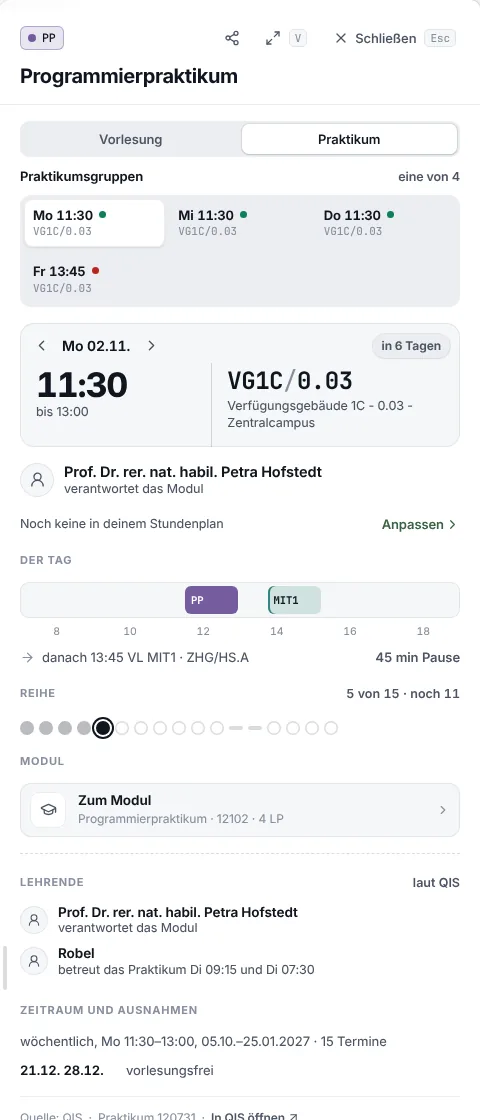
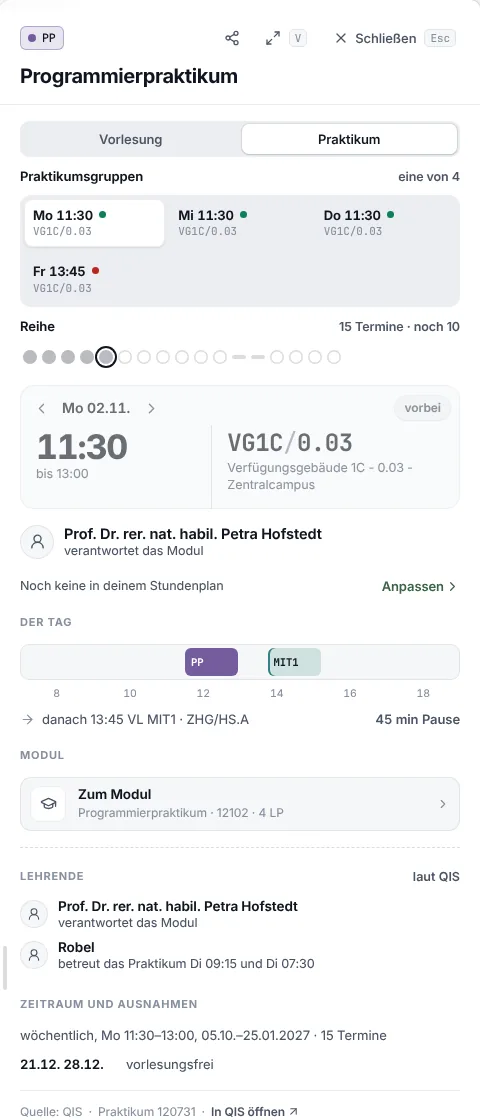
A Termin's series picks its date, above the ticket
The owner, 2026-11-03: „Passt, bau als Nächstes die Reihe als Auswahl über dem Ticket".

- widgets::termin: „Reihe" is the last of what picks, right above the ticket: a dot per date, each
  leading to it again (past, cancelled, noted, hidden; the break a dash that leads nowhere), the
  one shown ringed, its place in the series in its label („Di 10.11. · 6 von 14"). Its head says
  how many dates it has and how many are to come („14 Termine · noch 9"), which no pick changes;
  the place of the date shown („6 von 14") left it for that. The row is drawn once per series: a
  date picked moves the ring alone, and the keyboard stays where it was. Below the ticket the day
  alone, a picture.
- app.css: each dot a link a little larger than the dot (`.sdl`).
- e2e/termin.mjs: „Reihe" above the ticket; a date picked by its dot changes the ticket under it,
  nothing above it moves.
- docs/folia/frontend.md and folia/design/termin: the series above the ticket.

Claude-Session: https://claude.ai/code/session_01R2JvTv9zadiZjSdreJMpf1

diff --git a/folia/design/termin/konzepte.html b/folia/design/termin/konzepte.html
@@ -890,16 +890,17 @@ details.r1 .in { padding: 0 24px 24px; }
 
   <section class="sec" id="runde5" aria-labelledby="r5-title">
     <h2 id="r5-title">Was die fünfte Runde ändert</h2>
-    <p class="sub">Was wählt, steht oben. Diesmal gebaut, nicht gezeichnet: derselbe Termin neben seiner Modulseite, links Folia 1.54.0, rechts 1.56.0.</p>
+    <p class="sub">Was wählt, steht oben. Diesmal gebaut, nicht gezeichnet: derselbe Termin neben seiner Modulseite, links Folia 1.54.0, rechts 1.59.3 mit der Reihe über dem Ticket.</p>
     <div class="dec">
       <div class="ba">
         <figure><figcaption>Vierte Runde</figcaption><img src="bilder/runde4.webp" width="480" height="1120" alt="Die vierte Runde neben der Modulseite: oben das Ticket, darunter die Praktikumsgruppen, der Tag, die Reihe, das Modul, ganz unten „Alle Veranstaltungen“, aus denen man den Termin wählt." loading="lazy"></figure>
-        <figure><figcaption>Fünfte Runde</figcaption><img src="bilder/runde5.webp" width="480" height="1120" alt="Die fünfte Runde: unter dem Kopf mit dem Modul die Veranstaltungen als Segmente, Vorlesung und Praktikum, darunter die Praktikumsgruppen, dann das Ticket, die Person, „Anpassen“, der Tag und die Reihe." loading="lazy"></figure>
+        <figure><figcaption>Fünfte Runde</figcaption><img src="bilder/runde5.webp" width="480" height="1120" alt="Die fünfte Runde: unter dem Kopf mit dem Modul die Veranstaltungen als Segmente, Vorlesung und Praktikum, darunter die Praktikumsgruppen und die Reihe, dann das Ticket, die Person, „Anpassen“ und der Tag." loading="lazy"></figure>
       </div>
       <ul class="fb">
         <li><q>dass man unten auswählt, welchen Termin man sich genau angucken möchte und sich dann die Seite nur marginal ändert</q><span>Die Veranstaltungen des Moduls stehen jetzt oben als Segmente, darunter die Gruppen. Ein Tipp ändert das Ticket darunter, nichts darüber. „Alle Veranstaltungen“ am Ende gibt es nicht mehr: es sind die Segmente und die Gruppen, oben.</span></li>
         <li><q>Wenn man solche Buttons hat, dann ändern die nur den Inhalt unter ihnen</q><span>Der Kopf nennt das Modul und ändert sich mit keiner Wahl. Das Datum wählen die Pfeile am Ticket, über Zeit und Raum, die sie ändern.</span></li>
-        <li><q>Ansonsten muss man nochmal über das Konzept nachdenken</q><span>Unter dem Ticket wählt nichts mehr: der Tag und die Reihe sind Bilder. Im Stundenplan bleiben die Haken unter den Infos; sie stellen den Plan ein, nicht die Ansicht.</span></li>
+        <li><q>Ansonsten muss man nochmal über das Konzept nachdenken</q><span>Unter dem Ticket wählt nichts mehr: der Tag ist ein Bild. Im Stundenplan bleiben die Haken unter den Infos; sie stellen den Plan ein, nicht die Ansicht.</span></li>
+        <li><q>bau als Nächstes die Reihe als Auswahl über dem Ticket</q><span>Die Reihe steht jetzt als Letztes über dem Ticket: ein Tipp auf einen Punkt zeigt sein Datum. Ihr Kopf sagt nur, wie viele Termine es gibt und wie viele noch kommen; der wievielte steht am Punkt.</span></li>
         <li><q>Einfaches Prinzip</q><span>Steht jetzt in Betulas Regeln (CLAUDE.md, „Design“), für jede Ansicht.</span></li>
       </ul>
     </div>

diff --git a/folia/assets/app.css b/folia/assets/app.css
@@ -4250,8 +4250,12 @@ a.agenda-item:hover > span:not(.t) { text-decoration: underline; text-underline-
 .is-termin .nx { display: flex; align-items: center; gap: 7px; flex-wrap: wrap; margin: 0; color: var(--text-2); font-size: 13px; }
 .is-termin .nx > .icon { width: 15px; height: 15px; color: var(--text-3); }
 .is-termin .nx .w { margin-left: auto; color: var(--text-2); font-weight: 600; font-variant-numeric: tabular-nums; }
-/* „Reihe": a dot per date, a picture as the day is (the arrows beside the date step). */
-.is-termin .sdots { display: flex; flex-wrap: wrap; gap: 8px 5px; align-items: center; padding-top: 6px; }
+/* „Reihe", the last of what picks, right above the ticket (owner, 2026-11-03: „bau als Nächstes die
+   Reihe als Auswahl über dem Ticket"): a dot per date, each a link a little larger than its dot to
+   hit (span.sdl for the break, which one does not step to), the one shown ringed. */
+.is-termin .sdots { display: flex; flex-wrap: wrap; align-items: center; padding-top: 3px; }
+.is-termin .sdl { flex: none; display: grid; place-items: center; padding: 5px 2.5px; border-radius: 6px; }
+.is-termin a.sdl:hover > .sd:not(.sel):not(.cancel) { box-shadow: inset 0 0 0 1.5px var(--text-2); }
 .is-termin .sd { position: relative; flex: none; width: 14px; height: 14px; border-radius: 50%; box-shadow: inset 0 0 0 1.5px var(--line-strong); }
 .is-termin .sd.past { background: color-mix(in oklch, var(--text) 26%, var(--panel)); box-shadow: none; }
 .is-termin .sd.note { background: var(--warn); box-shadow: none; }

diff --git a/folia/crates/widgets/src/termin.rs b/folia/crates/widgets/src/termin.rs
@@ -6,9 +6,11 @@
 //! The head names the module, its chip and its title, which no pick changes. Under it what picks
 //! the Termin (`Pick`): the module's events as a row of segments where it has more than one (the
 //! one shown marked; another leads to its Termin the plan holds, else to its first), the event's
-//! own title where it is not the module's, and to look up (`TerminMode::LookUp`) the event's groups
-//! as tiles measured against the plan, or its Termine where it is held at several times without
-//! groups. Then what one wants to know of the date (the owner, of the third round: „punkt 1 sind ein
+//! own title where it is not the module's, to look up (`TerminMode::LookUp`) the event's groups as
+//! tiles measured against the plan, or its Termine where it is held at several times without
+//! groups, and last, right above the ticket, „Reihe": a dot per date, each leading to it (owner,
+//! 2026-11-03: „bau als Nächstes die Reihe als Auswahl über dem Ticket"). Then what one wants to
+//! know of the date (the owner, of the third round: „punkt 1 sind ein
 //! paar mehr infos. Punkt 2 ist dann die Termine zu customizen"): the day with arrows to the dates
 //! before and after it, where it stands („in 40 min", „läuft · noch 20 min", „Fällt aus"), the time
 //! and the room; who leads it and what else is said of it (a clash in red, why QIS cancels it, a
@@ -17,9 +19,9 @@
 //! the choice stays open), the event shown or not, this one date hidden — switches that change the
 //! plan at once, and the Kalender-Abo too, not what the view shows. To look up, of a module in the
 //! plan, how many of the groups the plan holds and „Anpassen ›"; of one outside it „In den
-//! Kalender". Then what one looks up, the day of the plan around the date and the series of its
-//! dates as pictures that pick nothing, the module with its exam, who teaches, the period and every
-//! date that differs, and the source.
+//! Kalender". Then what one looks up, the day of the plan around the date as a picture that picks
+//! nothing, the module with its exam, who teaches, the period and every date that differs, and the
+//! source.
 //!
 //! Every pick leads to its Termin by an address of the page (`TerminLinks`), so Back steps back
 //! through them, `nofollow` (a Termin's own page is no page search engines list); the switches
@@ -30,7 +32,7 @@
 //! phone a sheet over it, with „Teilen", „Ganze Seite" (V) and „Schließen" (Esc) at its head (the
 //! owner, 2026-10-26: „bau als Nächstes Teilen und Ganze Seite"); after „Ganze Seite" filling the
 //! page it stood beside, the same view in two columns — on the left the Termin (what picks it, the
-//! ticket, who, „Im Stundenplan" or the plan's line, the day, the series, the period), on the right
+//! ticket, who, „Im Stundenplan" or the plan's line, the day, the period), on the right
 //! the module and who teaches, which no pick changes, and the source at the end — with „Zurück"
 //! (Esc) to the view beside the page; and as a page of its own (`/event/<key>/<day>`) in the same
 //! two columns. „Teilen" hands on that page's address.
@@ -409,16 +411,23 @@ struct RibbonItem {
     out: bool,
 }
 
+/// „Reihe" over the ticket: how many dates it has and how many are still to come, which no pick
+/// changes, and a dot per date.
 #[derive(Clone, Debug, PartialEq)]
 struct SeriesPart {
     right: String,
     dots: Vec<Dot>,
 }
 
+/// A date of the series as its dot: its state's class (the one shown is marked where it is drawn,
+/// so a date picked redraws no dot), what it says with its place in the series („Mo 09.11. · 6 von
+/// 15"), and whether it leads to its date (the break and the holidays do not).
 #[derive(Clone, Debug, PartialEq)]
 struct Dot {
+    day: Day,
     class: String,
     label: String,
+    link: bool,
 }
 
 #[derive(Clone, Debug, PartialEq)]
@@ -546,7 +555,6 @@ pub fn TerminView(ctx: TerminCtx) -> impl IntoView {
                 <WhoView shown/>
                 {middle()}
                 <DayView shown/>
-                <SeriesView shown/>
                 <ModuleView ctx shown/>
                 <div class="tm-more">
                     <StaffView shown/>
@@ -565,7 +573,6 @@ pub fn TerminView(ctx: TerminCtx) -> impl IntoView {
                     <WhoView shown/>
                     {middle()}
                     <DayView shown/>
-                    <SeriesView shown/>
                     <RangeView shown/>
                 </div>
                 <div class="tm-col tm-look">
@@ -595,8 +602,9 @@ pub fn TerminView(ctx: TerminCtx) -> impl IntoView {
 }
 
 /// What picks the Termin (`Pick`), above everything it changes: the module's events as a row of
-/// segments (rows of four where it has more), the event's own title, and to look up its groups
-/// (`GroupsView`) or its Termine (`SlotsView`). Each leads to its Termin by the page's address.
+/// segments (rows of four where it has more), the event's own title, to look up its groups
+/// (`GroupsView`) or its Termine (`SlotsView`), and last, right above the ticket, its dates
+/// (`SeriesView`). Each leads to its Termin by the page's address.
 #[component]
 fn PickView(ctx: TerminCtx, shown: Memo<Option<Shown>>) -> impl IntoView {
     let t = i18n::t();
@@ -606,8 +614,9 @@ fn PickView(ctx: TerminCtx, shown: Memo<Option<Shown>>) -> impl IntoView {
     let title = Memo::new(move |_| shown.with(|s| s.as_ref().and_then(|s| s.pick.title.clone())));
     let slots = Memo::new(move |_| shown.with(|s| s.as_ref().and_then(|s| s.pick.slots.clone())));
     let day = Memo::new(move |_| shown.with(|s| s.as_ref().map(|s| s.day)));
+    let series = Memo::new(move |_| shown.with(|s| s.as_ref().and_then(|s| s.series.clone().map(|series| (s.key, series)))));
     let grouped = Memo::new(move |_| ctx.mode == TerminMode::LookUp && shown.with(|s| s.as_ref().is_some_and(|s| s.groups.is_some())));
-    let any = Memo::new(move |_| grouped.get() || slots.with(Option::is_some) || title.with(Option::is_some) || tabs.with(|tabs| !tabs.is_empty()));
+    let any = Memo::new(move |_| grouped.get() || slots.with(Option::is_some) || title.with(Option::is_some) || tabs.with(|tabs| !tabs.is_empty()) || series.with(Option::is_some));
     let events = move || {
         let tabs = tabs.get();
         (!tabs.is_empty()).then(|| {
@@ -636,6 +645,7 @@ fn PickView(ctx: TerminCtx, shown: Memo<Option<Shown>>) -> impl IntoView {
                     {move || title.get().map(|title| view! { <p class="tm-sub">{title}</p> })}
                     {move || grouped.get().then(|| view! { <GroupsView ctx shown adjust=false/> })}
                     {move || (!grouped.get() && slots.with(Option::is_some)).then(|| view! { <SlotsView ctx slots/> })}
+                    <SeriesView ctx series day/>
                 </div>
             }
         })
@@ -1086,20 +1096,38 @@ fn DayView(shown: Memo<Option<Shown>>) -> impl IntoView {
     }
 }
 
-/// „Reihe": a dot per date, where this one stands among them. A picture, as the day is: the arrows
-/// beside the date step through the series, above all they change.
+/// „Reihe", the last of what picks, right above the ticket (owner, 2026-11-03: „bau als Nächstes
+/// die Reihe als Auswahl über dem Ticket"): a dot per date, each leading to it, the one shown
+/// marked; at its head how many dates it has and how many are to come, which no pick changes. The
+/// row is drawn once per series: a date picked moves the mark alone, and the keyboard stays where
+/// it was. The arrows beside the date in the ticket (← →) step through the same dates.
 #[component]
-fn SeriesView(shown: Memo<Option<Shown>>) -> impl IntoView {
+fn SeriesView(ctx: TerminCtx, series: Memo<Option<(RowKey, SeriesPart)>>, day: Memo<Option<Day>>) -> impl IntoView {
     let t = i18n::t();
-    let part = Memo::new(move |_| shown.with(|s| s.as_ref().and_then(|s| s.series.clone())));
     move || {
-        part.get().map(|part| {
-            let dots = part.dots.into_iter().map(|dot| view! { <span class=dot.class title=dot.label></span> }).collect_view();
+        series.get().map(|(key, part)| {
+            let dots = part
+                .dots
+                .into_iter()
+                .map(|dot| {
+                    let at = dot.day;
+                    let shown = move || day.get() == Some(at);
+                    match dot.link {
+                        true => view! {
+                            <a class="sdl" href=ctx.links.termin.run((key, Some(at))) rel="nofollow" data-noscroll="" title=dot.label.clone() aria-label=dot.label aria-current=move || shown().then_some("true")>
+                                <i class=dot.class class:sel=shown></i>
+                            </a>
+                        }
+                        .into_any(),
+                        false => view! { <span class="sdl" title=dot.label><i class=dot.class class:sel=shown></i></span> }.into_any(),
+                    }
+                })
+                .collect_view();
             view! {
-                <section class="tm-sec">
-                    <h4>{t.termin.series}<span class="r">{part.right}</span></h4>
+                <div class="grp tm-series">
+                    <div class="grp-h"><span>{t.termin.series}</span><span class="r">{part.right}</span></div>
                     <div class="sdots">{dots}</div>
-                </section>
+                </div>
             }
         })
     }
@@ -1679,17 +1707,16 @@ fn day_part(table: &Timetable, beside: Option<&Timetable>, o: &Occasion, named: 
     DayPart { items, lanes: lanes.len(), then }
 }
 
-/// „Reihe": a dot per date, and where this one stands among them.
+/// „Reihe": a dot per date, how many it has and how many are to come. Nothing of it depends on the
+/// date shown: it picks that date, and stands above what the pick changes.
 fn series_part(o: &Occasion, today: Option<Day>, t: &'static Texts) -> Option<SeriesPart> {
     let locale = t.locale;
     if o.dates.len() < 2 {
         return None;
     }
-    let (nth, count, left) = o.place(today);
-    let right = match nth {
-        Some(nth) => format!("{} · {}", (t.termin.nth_of)(nth, count), (t.termin.left)(left)),
-        None => format!("{} · {}", (t.termin.dates)(count), (t.termin.left)(left)),
-    };
+    let (_, count, left) = o.place(today);
+    let right = format!("{} · {}", (t.termin.dates)(count), (t.termin.left)(left));
+    let held: Vec<Day> = o.dates.iter().filter(|dated| dated.state.held()).map(|dated| dated.day).collect();
     let dots = o
         .dates
         .iter()
@@ -1703,9 +1730,10 @@ fn series_part(o: &Occasion, today: Option<Day>, t: &'static Texts) -> Option<Se
                 DateState::Held if gone => ("past", Some(t.termin.dot_past.to_string())),
                 DateState::Held => ("", None),
             };
-            let class = ["sd", state, if today == Some(dated.day) { "today" } else { "" }, if dated.day == o.day { "sel" } else { "" }].into_iter().filter(|class| !class.is_empty()).collect::<Vec<_>>().join(" ");
-            let label = format!("{}{}", day_words(dated.day, today, locale), said.map(|said| format!(" · {said}")).unwrap_or_default());
-            Dot { class, label }
+            let class = ["sd", state, if today == Some(dated.day) { "today" } else { "" }].into_iter().filter(|class| !class.is_empty()).collect::<Vec<_>>().join(" ");
+            let nth = held.iter().position(|day| *day == dated.day).filter(|_| dated.state.held()).map(|at| (t.termin.nth_of)(at + 1, count));
+            let label = [Some(day_words(dated.day, today, locale)), nth, said].into_iter().flatten().collect::<Vec<_>>().join(" · ");
+            Dot { day: dated.day, class, label, link: dated.state.steppable() }
         })
         .collect();
     Some(SeriesPart { right, dots })
@@ -2058,6 +2086,31 @@ mod tests {
         assert_eq!(lecture.pick.events.iter().map(|tab| tab.key).collect::<Vec<_>>(), [rows[0].key(), rows[2].key(), rows[3].key()]);
         let tutorial = shown_of(&ticked, &Against::Itself, rows[3].key(), None, None, &modules(), (TerminMode::Adjust, Some(true)), texts).unwrap();
         assert!(tutorial.pick.slots.is_none() && tutorial.pick.events.len() == 3);
+    }
+
+    #[test]
+    fn the_series_picks_its_date_above_the_ticket() {
+        // A lecture on Tuesdays through the semester: the break in it, one date cancelled.
+        let mut lecture = teaching("12104", "100", 1, "Vorlesung", 2, "09:15", "10:45");
+        lecture.0.cancelled_dates = Some("17.11.2026: Krankheit".into());
+        let rows = vec![lecture];
+        let t = table(&rows, &["12104"], &[], &Selection::default());
+        let texts = &i18n::DE;
+        let on = |day: &str| shown_of(&t, &Against::Itself, rows[0].key(), Some(d(day)), Some((d("2026-11-10"), 8 * 60)), &modules(), (TerminMode::Adjust, Some(true)), texts).unwrap();
+        // Nothing of it changes with the date shown, which it picks: its head, its dots.
+        let (tenth, later) = (on("2026-11-10"), on("2026-12-01"));
+        assert_eq!(tenth.series, later.series);
+        let series = tenth.series.unwrap();
+        assert_eq!(series.right, "14 Termine · noch 9");
+        let dot = |day: &str| series.dots.iter().find(|dot| dot.day == d(day)).cloned().unwrap();
+        // Each date its place in the series; the cancelled one leads to it too, the break not.
+        let today = dot("2026-11-10");
+        assert_eq!((today.label.as_str(), today.class.as_str(), today.link), ("Di 10.11. · 6 von 14", "sd today", true));
+        let cancelled = dot("2026-11-17");
+        assert_eq!((cancelled.label.as_str(), cancelled.class.as_str(), cancelled.link), ("Di 17.11. · fällt aus", "sd cancel", true));
+        let off = dot("2026-12-22");
+        assert!(!off.link && off.class == "sd off", "{off:?}");
+        assert_eq!(dot("2026-10-06").class, "sd past");
     }
 
     #[test]

diff --git a/docs/folia/frontend.md b/docs/folia/frontend.md
@@ -2159,11 +2159,16 @@ paths inside the app never carry the prefix (`folia_locale::Locale::path`/`split
     one shown always there): the one shown marked, another leading to its Termin the plan holds (a
     group ticked), else to its first. Under them the event's own title where it is not the module's,
     and to look up the event's groups (below) or, of an event held at several times without groups,
-    its Termine („Termine · beide"). Then the ticket, whose arrows pick its date above the time and
-    room they change. Below the ticket nothing picks: the day and the series are pictures, and the
-    switches of „Im Stundenplan" change the plan, not what the view shows. „Alle Veranstaltungen" at
-    the end, which picked a Termin from the bottom, is gone: the segments and the groups are it, at
-    the top.
+    its Termine („Termine · beide"). Last, right above the ticket, „Reihe" (owner, 2026-11-03: „Passt,
+    bau als Nächstes die Reihe als Auswahl über dem Ticket"): a dot per date, each leading to it
+    (past, cancelled, noted, hidden; the break a dash that leads nowhere), the one shown ringed, its
+    place in the series in its label („Di 10.11. · 6 von 14"); at its head how many dates it has and
+    how many are to come („14 Termine · noch 9"), which no pick changes. A date picked moves the ring
+    alone, the row stays drawn and the keyboard on it. Then the ticket, whose arrows step through the
+    same dates above the time and room they change. Below the ticket nothing picks: the day is a
+    picture, and the switches of „Im Stundenplan" change the plan, not what the view shows. „Alle
+    Veranstaltungen" at the end, which picked a Termin from the bottom, is gone: the segments and
+    the groups are it, at the top.
   - **Then what one wants to know.** The date with arrows to the dates before and after it (the
     break and the holidays skipped), the A/B week where it is held every other week, where it stands
     („in 40 min", „läuft · noch 20 min", „morgen", „vorbei", „Fällt aus", „ausgeblendet"), the time
@@ -2186,8 +2191,7 @@ paths inside the app never carry the prefix (`folia_locale::Locale::path`/`split
     hidden dates as a field appended to its frozen layout, `subscription::date_value`, so a code
     without any is the same as before).
   - **Then what one looks up:** „Der Tag" (the plan's Termine of the day on a ribbon from 7 to 19,
-    this one filled, and what comes after it with the time between), „Reihe" (a dot per date: past,
-    cancelled, noted, hidden, the break; „5 von 15 · noch 12"), both pictures that open nothing,
+    this one filled, and what comes after it with the time between), a picture that opens nothing,
     „Modul" („Zum Modul": the module's panel beside the plan, pointing at the Termin, and its exam in
     days), and after a dashed line „Lehrende laut QIS" and „Zeitraum und Ausnahmen" (the rhythm,
     weekday, time, first and last date, how many, and every date that differs), at the end „Quelle:
@@ -2220,8 +2224,8 @@ paths inside the app never carry the prefix (`folia_locale::Locale::path`/`split
     (enhance.js, `share-link`; it needs JavaScript, R15). „Ganze Seite" lets the Termin fill the
     page it stood beside (`/studyplan?…&termin=…&on=…&full=1`, `/?termin=…&on=…&full=1`), as
     „Vollbild" does a module: the same view, still the one that adjusts, in two columns where the
-    page is wide (folia/design/termin, „Die Seite": on the left what picks the Termin, the ticket,
-    who, „Im Stundenplan", the day, the series and the period; on the right the module and who
+    page is wide (folia/design/termin, „Die Seite": on the left what picks the Termin with its
+    series, the ticket, who, „Im Stundenplan", the day and the period; on the right the module and who
     teaches, which no pick changes, and the source), its events, groups and dates leading to their
     Termin filling the page too, „Zurück" (Esc)
     to the view beside the page on the day shown, „Teilen" in words at the right. The start page's
